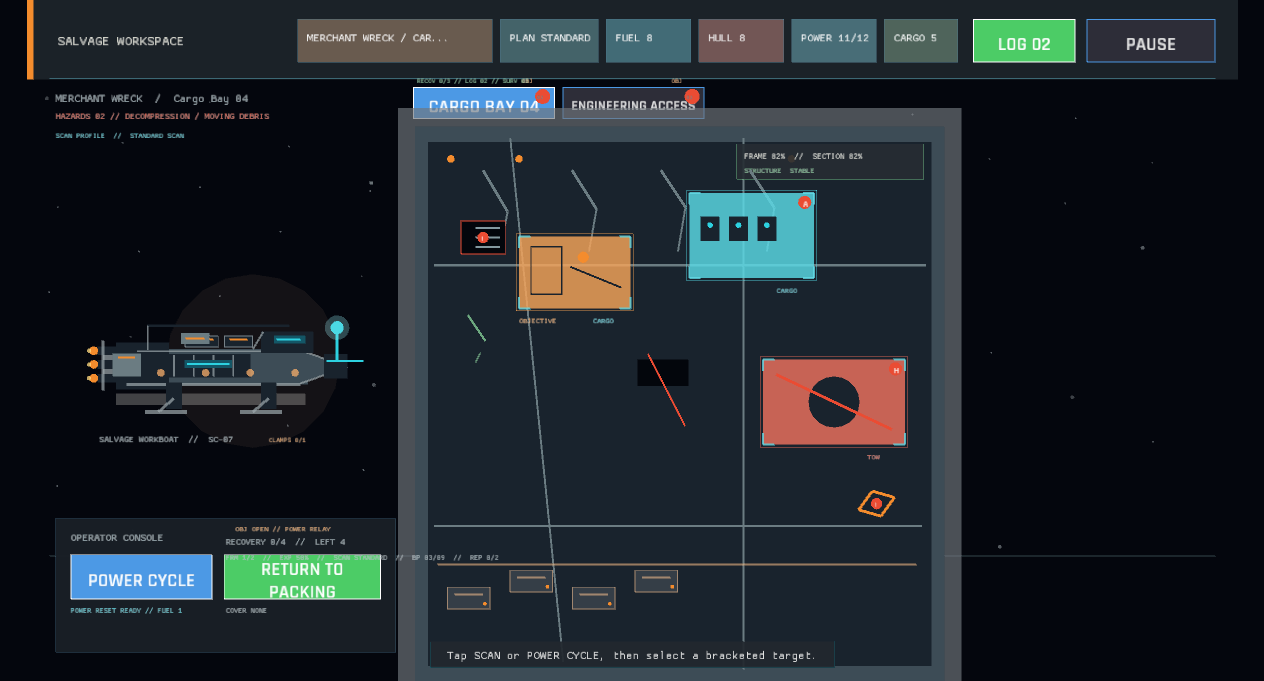
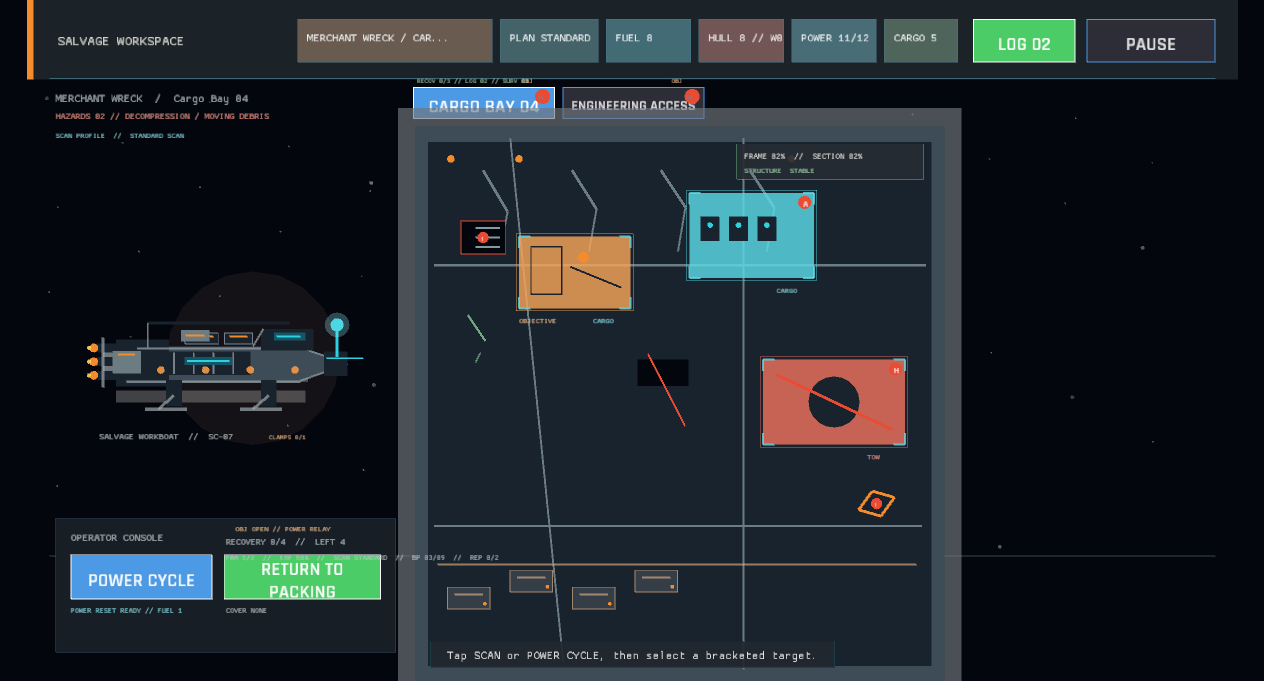
The working boat carries its wear into the wreck (operation wear badge)
Active transit and workspace headers now show hull integrity beside accumulated ship wear, keeping the new maintenance pressure visible during the job. Added focused badge coverage and refreshed both affected verification captures.

Changed region(s): [[0.0617, 0.4626, 0.2777, 0.6476], [0.5862, 0.0308, 0.6171, 0.0617]]

diff --git a/src/ui/operation_header.rs b/src/ui/operation_header.rs
@@ -50,7 +50,7 @@ pub(super) fn draw_operation_badges(ctx: &UiContext<'_>) {
     );
     badge(
         Rect::new(710.0, 20.0, 90.0, 46.0),
-        &format!("HULL {}", ctx.session.hull),
+        &hull_badge_label(ctx.session.hull, ctx.session.ship_wear()),
         visual_theme::with_alpha(visual_theme::warning(), 0.26),
     );
     badge(
@@ -66,6 +66,10 @@ pub(super) fn draw_operation_badges(ctx: &UiContext<'_>) {
         &format!("CARGO {}", expedition_cargo_count(ctx)),
         visual_theme::with_alpha(visual_theme::safe(), 0.22),
     );
+}
+
+pub(super) fn hull_badge_label(hull: i32, ship_wear: u8) -> String {
+    format!("HULL {hull} // W{ship_wear}")
 }
 
 pub(super) fn log_button_label(entry_count: usize) -> String {

diff --git a/src/ui/operation_header/tests.rs b/src/ui/operation_header/tests.rs
@@ -6,3 +6,8 @@ fn log_button_label_keeps_small_counts_readable() {
     assert_eq!(log_button_label(6), "LOG 06");
     assert_eq!(log_button_label(107), "LOG 107");
 }
+
+#[test]
+fn hull_badge_carries_accumulated_ship_wear() {
+    assert_eq!(hull_badge_label(8, 42), "HULL 8 // W42");
+}
